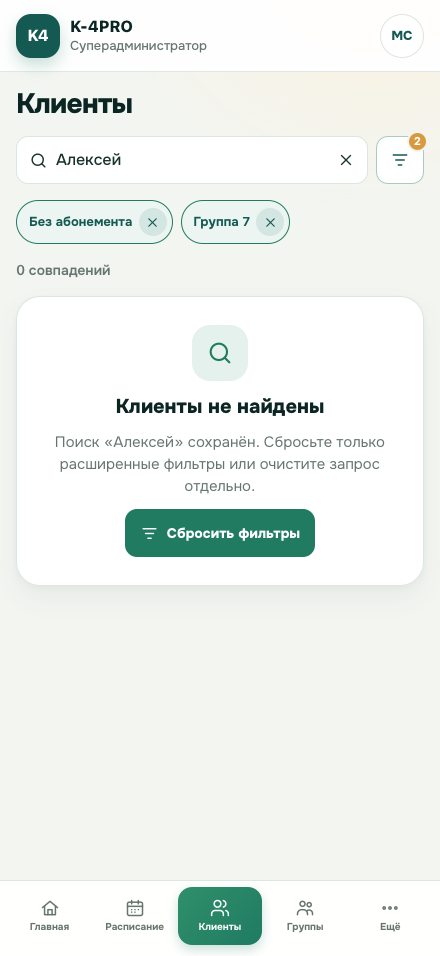
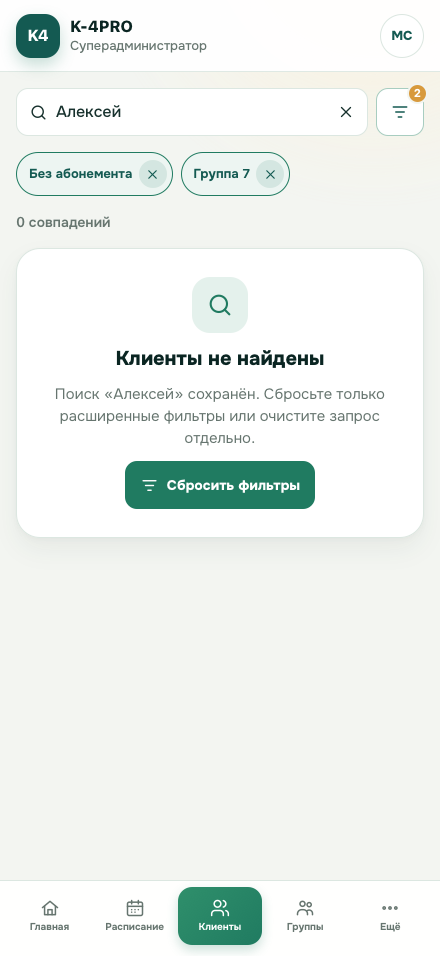
уточнение макетов

diff --git a/docs/ui-concept/task-090-iphone-17-pro-max/app.js b/docs/ui-concept/task-090-iphone-17-pro-max/app.js
@@ -45,7 +45,21 @@ function icon(name, size = 20) {
   return `<svg aria-hidden="true" width="${size}" height="${size}" viewBox="0 0 24 24" fill="none" stroke="currentColor" stroke-width="1.8" stroke-linecap="round" stroke-linejoin="round">${path}</svg>`
 }
 
-function button(label, { kind = 'default', iconName = '', block = false, extra = '' } = {}) {
+const iconActionLabels = {
+  back: 'Назад',
+  close: 'Закрыть',
+  edit: 'Редактировать',
+  plus: 'Добавить',
+  refresh: 'Обновить',
+}
+
+function button(label, {
+  kind = 'default',
+  iconName = '',
+  block = false,
+  extra = '',
+  ariaLabel = '',
+} = {}) {
   const classes = [
     'button',
     kind === 'primary' ? 'button--primary' : '',
@@ -56,7 +70,9 @@ function button(label, { kind = 'default', iconName = '', block = false, extra =
     label === '' ? 'button--icon' : '',
     extra,
   ].filter(Boolean).join(' ')
-  return `<button class="${classes}" type="button">${iconName ? icon(iconName, 19) : ''}${label ? `<span>${label}</span>` : ''}</button>`
+  const accessibleName = ariaLabel || iconActionLabels[iconName] || ''
+  const aria = label === '' && accessibleName ? ` aria-label="${accessibleName}"` : ''
+  return `<button class="${classes}" type="button"${aria}>${iconName ? icon(iconName, 19) : ''}${label ? `<span>${label}</span>` : ''}</button>`
 }
 
 function badge(label, tone = 'brand') {
@@ -101,12 +117,13 @@ function locator({
   geometry = true,
   visibleLabel = false,
   kind = 'search',
+  actions = '',
 } = {}) {
   const isSearch = kind === 'search'
   const fieldRole = isSearch ? 'searchbox' : 'button'
   const fieldLabel = isSearch ? label : `${label}: ${value}`
   return `
-    <div class="locator locator--${kind}" role="${isSearch ? 'search' : 'group'}" data-locator-kind="${kind}"${geometry ? ' data-geometry="locator"' : ''}>
+    <div class="locator locator--${kind}${actions ? ' locator--with-actions' : ''}" role="${isSearch ? 'search' : 'group'}" data-locator-kind="${kind}"${geometry ? ' data-geometry="locator"' : ''}>
       <div class="locator__field">
         <span class="persistent-label${visibleLabel ? '' : ' sr-only'}">${label}</span>
         <div class="input-shell" role="${fieldRole}" aria-label="${fieldLabel}">
@@ -119,6 +136,7 @@ function locator({
         ${icon('filter', 20)}
         ${count ? `<span class="filter-button__count">${count}</span>` : ''}
       </button>
+      ${actions ? `<div class="locator__actions">${actions}</div>` : ''}
     </div>`
 }
 
@@ -246,7 +264,7 @@ function settingsTabs(active) {
 
 function baseClientsContext(body) {
   return shell(
-    `${pageHeader('Клиенты', `${button('', { iconName: 'refresh' })}${button('', { iconName: 'plus', kind: 'accent' })}`)}
+    `<h1 class="sr-only">Клиенты</h1>
     ${locator({ placeholder: 'Имя или телефон', label: 'Найти клиента' })}
     ${body}`,
     { active: 'clients' },
@@ -345,7 +363,7 @@ const scenes = {
   ),
 
   'system-empty-filtered': () => shell(
-    `${pageHeader('Клиенты')}
+    `<h1 class="sr-only">Клиенты</h1>
     ${locator({ value: 'Алексей', count: 2, label: 'Найти клиента' })}
     ${activeFilters(['Без абонемента', 'Группа 7'])}
     ${rangeStatus('0 совпадений')}
@@ -413,8 +431,8 @@ const scenes = {
   ),
 
   'schedule-ready': () => shell(
-    `${pageHeader('Расписание', button('', { iconName: 'refresh' }))}
-    ${locator({ placeholder: 'Группа или тренер', count: 1, label: 'Найти занятие' })}
+    `<h1 class="sr-only">Расписание</h1>
+    ${locator({ placeholder: 'Группа или тренер', count: 1, label: 'Найти занятие', actions: button('', { iconName: 'refresh' }) })}
     ${activeFilters(['Северный'])}
     ${dayStrip()}
     ${scheduleCards()}`,
@@ -422,7 +440,7 @@ const scenes = {
   ),
 
   'schedule-filter-surface': () => shell(
-    `${pageHeader('Расписание')}${dayStrip()}${scheduleCards()}`,
+    `<h1 class="sr-only">Расписание</h1>${dayStrip()}${scheduleCards()}`,
     { active: 'schedule', role: 'Главный тренер' },
   ) + modalOverlay(
     'Фильтры расписания',
@@ -432,8 +450,13 @@ const scenes = {
   ),
 
   'clients-browse': () => shell(
-    `${pageHeader('Клиенты', `${button('', { iconName: 'refresh' })}${button('Новый', { kind: 'accent', iconName: 'plus' })}`)}
-    ${locator({ placeholder: 'Имя или телефон', count: 2, label: 'Найти клиента' })}
+    `<h1 class="sr-only">Клиенты</h1>
+    ${locator({
+      placeholder: 'Имя или телефон',
+      count: 2,
+      label: 'Найти клиента',
+      actions: `${button('', { iconName: 'refresh' })}${button('', { kind: 'accent', iconName: 'plus', ariaLabel: 'Новый клиент' })}`,
+    })}
     ${activeFilters(['Без абонемента', 'Активные'])}
     ${rangeStatus('Показаны 1–5 из 48')}
     <div class="task-list">
@@ -538,9 +561,14 @@ const scenes = {
   ),
 
   'groups-list': () => shell(
-    `${pageHeader('Группы', `${button('', { iconName: 'refresh' })}${button('Создать', { kind: 'accent', iconName: 'plus' })}`)}
+    `<h1 class="sr-only">Группы</h1>
     <div class="metrics">${metric('Активные', '10')}${metric('Без тренера', '1', 'нужно назначить')}</div>
-    ${locator({ placeholder: 'Название группы', count: 1, label: 'Найти группу' })}
+    ${locator({
+      placeholder: 'Название группы',
+      count: 1,
+      label: 'Найти группу',
+      actions: `${button('', { iconName: 'refresh' })}${button('', { kind: 'accent', iconName: 'plus', ariaLabel: 'Создать группу' })}`,
+    })}
     ${rangeStatus('Показаны 1–3 из 12')}
     <div class="task-list">
       ${groupItem('Группа 7: вечер', 'Вт, Чт · старт 19:00 · 90 мин', 'Северный · Основной зал', 'Максим Орлов, Анна Лебедева', '14 клиентов · 2 тренера', 0)}

diff --git a/docs/ui-concept/task-090-iphone-17-pro-max/styles.css b/docs/ui-concept/task-090-iphone-17-pro-max/styles.css
@@ -399,6 +399,16 @@ svg {
   gap: 8px;
 }
 
+.locator--with-actions {
+  grid-template-columns: minmax(0, 1fr) 48px auto;
+}
+
+.locator__actions {
+  display: flex;
+  align-items: center;
+  gap: 8px;
+}
+
 .locator__field {
   min-width: 0;
 }

diff --git a/docs/MOBILE_UI_CONTRACT.md b/docs/MOBILE_UI_CONTRACT.md
@@ -125,7 +125,8 @@ Generic route-level restricted copy может находиться во fronten
 В `browse` state используется единый порядок:
 
 1. shell header;
-2. page header;
+2. semantic route title и, только если он не дублирует persistent navigation,
+   visible page header;
 3. primary locator;
 4. active filters и range/status;
 5. result, form или recovery state;
@@ -134,6 +135,47 @@ Generic route-level restricted copy может находиться во fronten
 У каждого route есть ровно один `h1` и корректный document title. В
 `search-focused` state видимый page header может свернуться, но route остаётся
 доступно назван через document title, landmark и accessible name locator/results.
+
+### Видимость route title
+
+На mobile, tablet и desktop visible route header не показывается, если
+одновременно выполняются все условия:
+
+- это top-level list/workspace screen;
+- active persistent navigation или tab уже видимо и однозначно называет route;
+- `h1` не содержит entity identity, operation mode или critical scope;
+- действия из header помещаются в первый locator/toolbar/summary row без
+  скрытия primary/frequent operation.
+
+Для таких экранов semantic `h1` остаётся первым элементом route `main`, но
+визуально скрывается. Document title, main landmark name и
+`aria-current="page"` активной навигации сохраняют доступное название route.
+На mobile это применяется, например, к list screens `Клиенты`, `Группы` и
+`Расписание`, когда одноимённый пункт bottom navigation виден и активен. На
+desktop то же правило действует при одноимённом active item в persistent
+sidebar/top navigation.
+
+После удаления visible header:
+
+- первый видимый row содержит locator, filters, summary или другой рабочий
+  control;
+- refresh и другие frequent actions переходят в locator/toolbar;
+- create/add остаётся видимым в первом task area и не уходит в overflow;
+- пустой spacer или action-only строка на месте header не создаётся.
+
+Visible `h1` сохраняется, если active navigation не называет текущий route
+однозначно: например, mobile destination находится внутри `Ещё`; route является
+detail/create/edit/form/auth screen; заголовок называет сущность или операцию;
+recovery state не имеет собственного конкретного heading; либо перенос действий
+скроет primary operation. Если active `Клиенты` и state heading уже сообщает
+`Список клиентов не загрузился` / `Клиентов пока нет`, дублирующий visible
+route title не нужен. Active parent `Клиенты` не заменяет visible title
+`Карточка клиента`.
+
+Дополнительная ширина `768` или `1440px` не возвращает дублирующий header.
+Если desktop sidebar уже называет list route, content начинается с toolbar,
+table/list или summary. Если sidebar показывает лишь общий parent, visible
+route title сохраняется.
 
 ### Поясняющий текст и служебные метки
 
@@ -568,6 +610,8 @@ Behavior:
 
 ### Page header
 
+- Top-level list route не рендерит visible `PageHeader`, когда одноимённая
+  active persistent navigation уже видима; `h1` остаётся visually hidden.
 - В `browse` state по умолчанию содержит только title и actions.
 - Route-level `PageLayout` / `PageHeader` не предоставляет свободные
   `description`, `subtitle`, `eyebrow` или badge slots для декоративного текста.
@@ -587,6 +631,9 @@ Behavior:
   скрывается; обязательный остаётся в рабочей section вместе с действием или
   recovery path.
 - В action cluster не больше одного filled/accent action.
+- При скрытом `PageHeader` actions переходят в первый locator/toolbar/summary
+  row: primary/frequent остаются видимыми, secondary/rare не создают отдельную
+  строку только ради сохранения прежней геометрии.
 - Refresh — frequent action, а не второй primary.
 - `search-focused` может визуально свернуть header по screen-specific contract.
 

diff --git a/docs/ui-concept/README.md b/docs/ui-concept/README.md
@@ -24,7 +24,7 @@
 Предпочтительная стратегия: не переносить весь продукт на левый sidebar ради одного макета, а сохранить текущий `AppShell` с верхней ролевой навигацией и унифицировать все вкладки через общий operational pattern:
 
 ```text
-Compact page header -> Summary/locator/filter -> Primary content surface
+Active navigation + semantic route title -> Summary/locator/filter -> Primary content surface
 ```
 
 Это сохраняет уже работающую механику CRM, но убирает разнобой между вкладками.
@@ -40,6 +40,14 @@ Compact page header -> Summary/locator/filter -> Primary content surface
 ## Общие правила интерфейса
 
 - Header вкладки: один короткий title, справа primary CTA и вторичные действия.
+- На top-level list видимый header отсутствует, если active persistent
+  navigation уже однозначно показывает тот же route. Semantic `h1`, document
+  title и accessible main name сохраняются.
+- Действия удалённого header переходят в первый locator/toolbar/summary row;
+  пустая строка на месте заголовка не остаётся.
+- Detail/form screens и mobile routes внутри `Ещё` сохраняют visible title,
+  когда navigation не называет текущую задачу. Recovery state с конкретным
+  heading не дублирует уже видимое название active route.
 - Постоянные subtitle/eyebrow/badge/intro/helper под title запрещены на mobile
   и desktop, если не проходят `decision/usefulness test` из
   `docs/MOBILE_UI_CONTRACT.md`.

diff --git a/.agents/skills/crm-mobile-first-ui/references/mobile-acceptance.md b/.agents/skills/crm-mobile-first-ui/references/mobile-acceptance.md
@@ -62,6 +62,16 @@ visual viewport.
   accessible name from a label or ARIA; placeholder is not its only name.
 - Ordinary form fields, multiple or ambiguous text fields, and
   period/date/scope controls retain visible persistent labels.
+- A top-level list has no visible route heading when an active persistent nav
+  item already names the same route; a semantic level-one heading, document
+  title, named main landmark, and active-nav state remain.
+- Removing a duplicate list heading leaves no blank spacer or action-only row;
+  the first visible row is a locator, summary, filters, or task content.
+- Actions formerly owned by the hidden header remain visible in the first task
+  toolbar when primary/frequent and retain accessible names.
+- Detail/create/edit/auth screens and routes under a generic `More`
+  destination keep a visible title when navigation does not name the task;
+  recovery states with specific headings do not duplicate an active route name.
 - Fixed and sticky headers, bottom navigation, action bars, close controls, and notifications remain inside the safe area.
 - Safe-area spacing combines the project spacing token with `env(safe-area-inset-*)` or an equivalent measured inset; the safe-area inset does not replace the normal content margin.
 - Full-height mobile surfaces remain usable as Safari chrome expands or collapses and do not rely on `100vh` alone as evidence of correct height.

diff --git a/.agents/skills/crm-mobile-first-ui/SKILL.md b/.agents/skills/crm-mobile-first-ui/SKILL.md
@@ -86,6 +86,15 @@ Rules:
   visually-hidden label or ARIA, and do not use placeholder as that name;
 - preserve visible persistent labels for ordinary forms, multiple or ambiguous
   text fields, and period/date/scope controls.
+- hide the visible route heading on a top-level list only when an active,
+  persistent navigation item already names that route unambiguously; retain a
+  visually-hidden `h1`, document title, named main landmark, and active-nav
+  semantics;
+- move actions from a hidden list header into the first locator/toolbar/summary
+  row without leaving a spacer or hiding primary/frequent operations;
+- keep visible route titles for detail/create/edit/auth screens and routes
+  whose active navigation is only a generic parent such as `More`; a recovery
+  state with its own specific heading need not duplicate an active route name.
 
 Use `.agents/skills/design-first-ui-prompting/SKILL.md` only when the
 deliverable includes a prompt for an external UI generator, a static visual

diff --git a/docs/ui-concept/task-090-iphone-17-pro-max/README.md b/docs/ui-concept/task-090-iphone-17-pro-max/README.md
@@ -33,6 +33,8 @@ The rendered screenshots follow the cross-device explanatory-copy rule in
   repeats the primary action;
 - a sole primary search does not show a generic label above the field, while
   retaining a stable accessible name independent of placeholder;
+- top-level lists omit a visible route title when active persistent navigation
+  already names the route; semantic `h1` and relocated actions remain;
 - required validation, recovery, constraint, security/legal and
   operational-state copy is placed next to the affected field/action/section.
 
